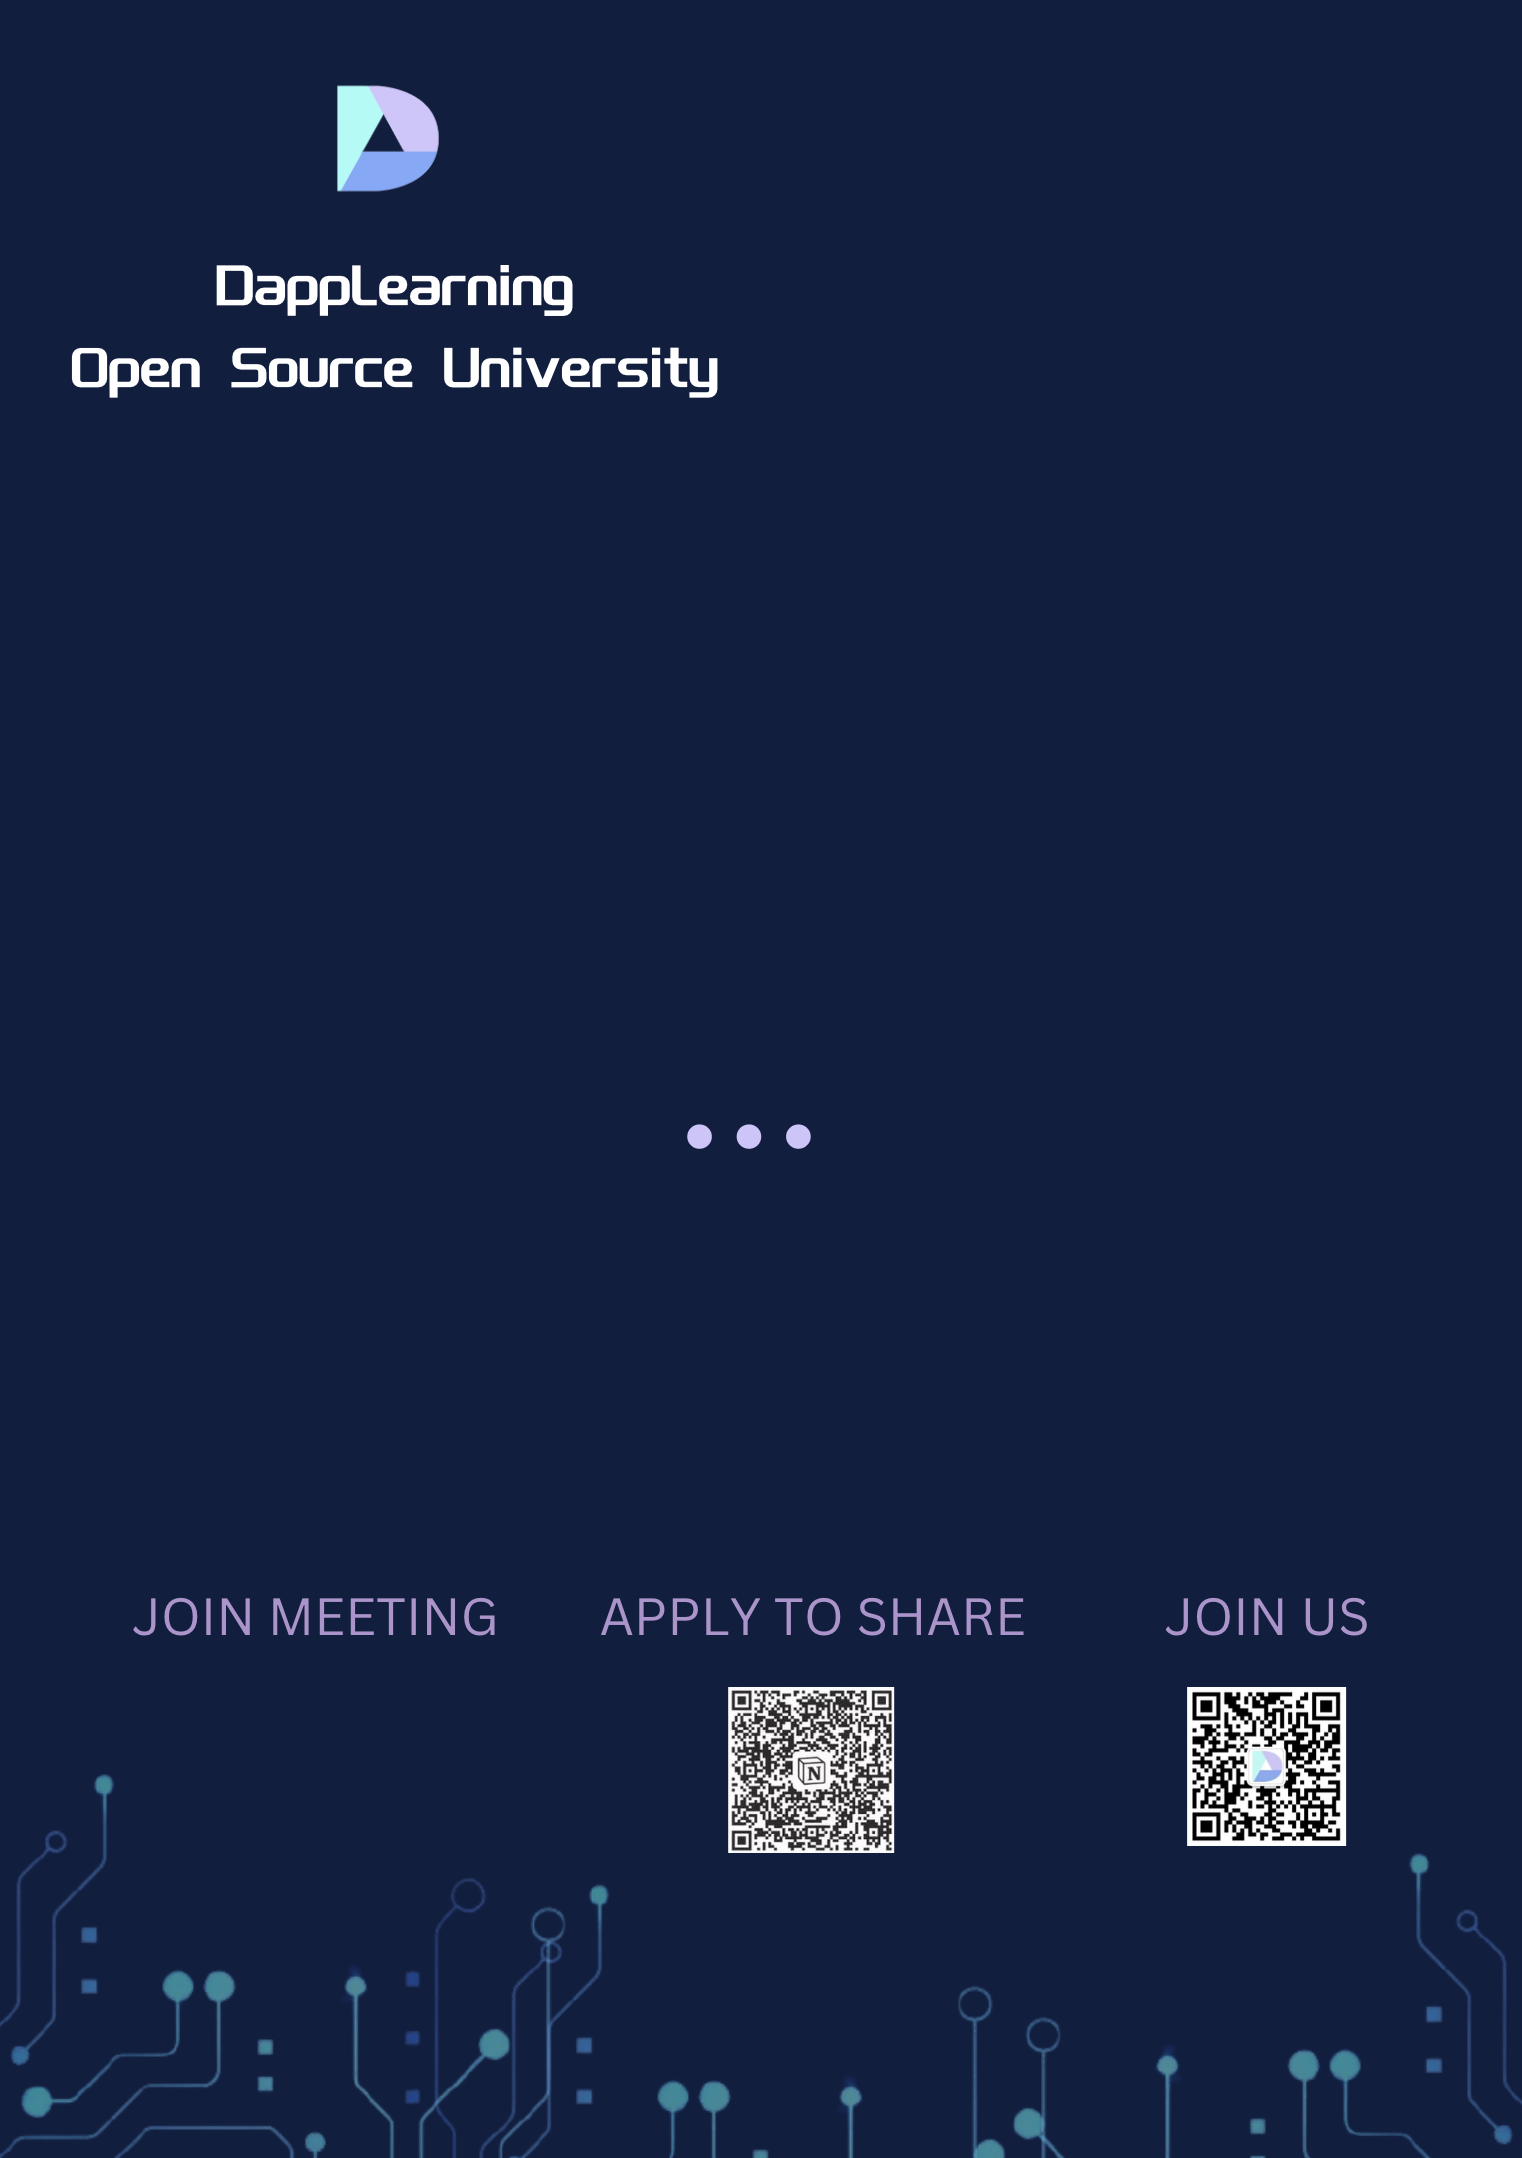
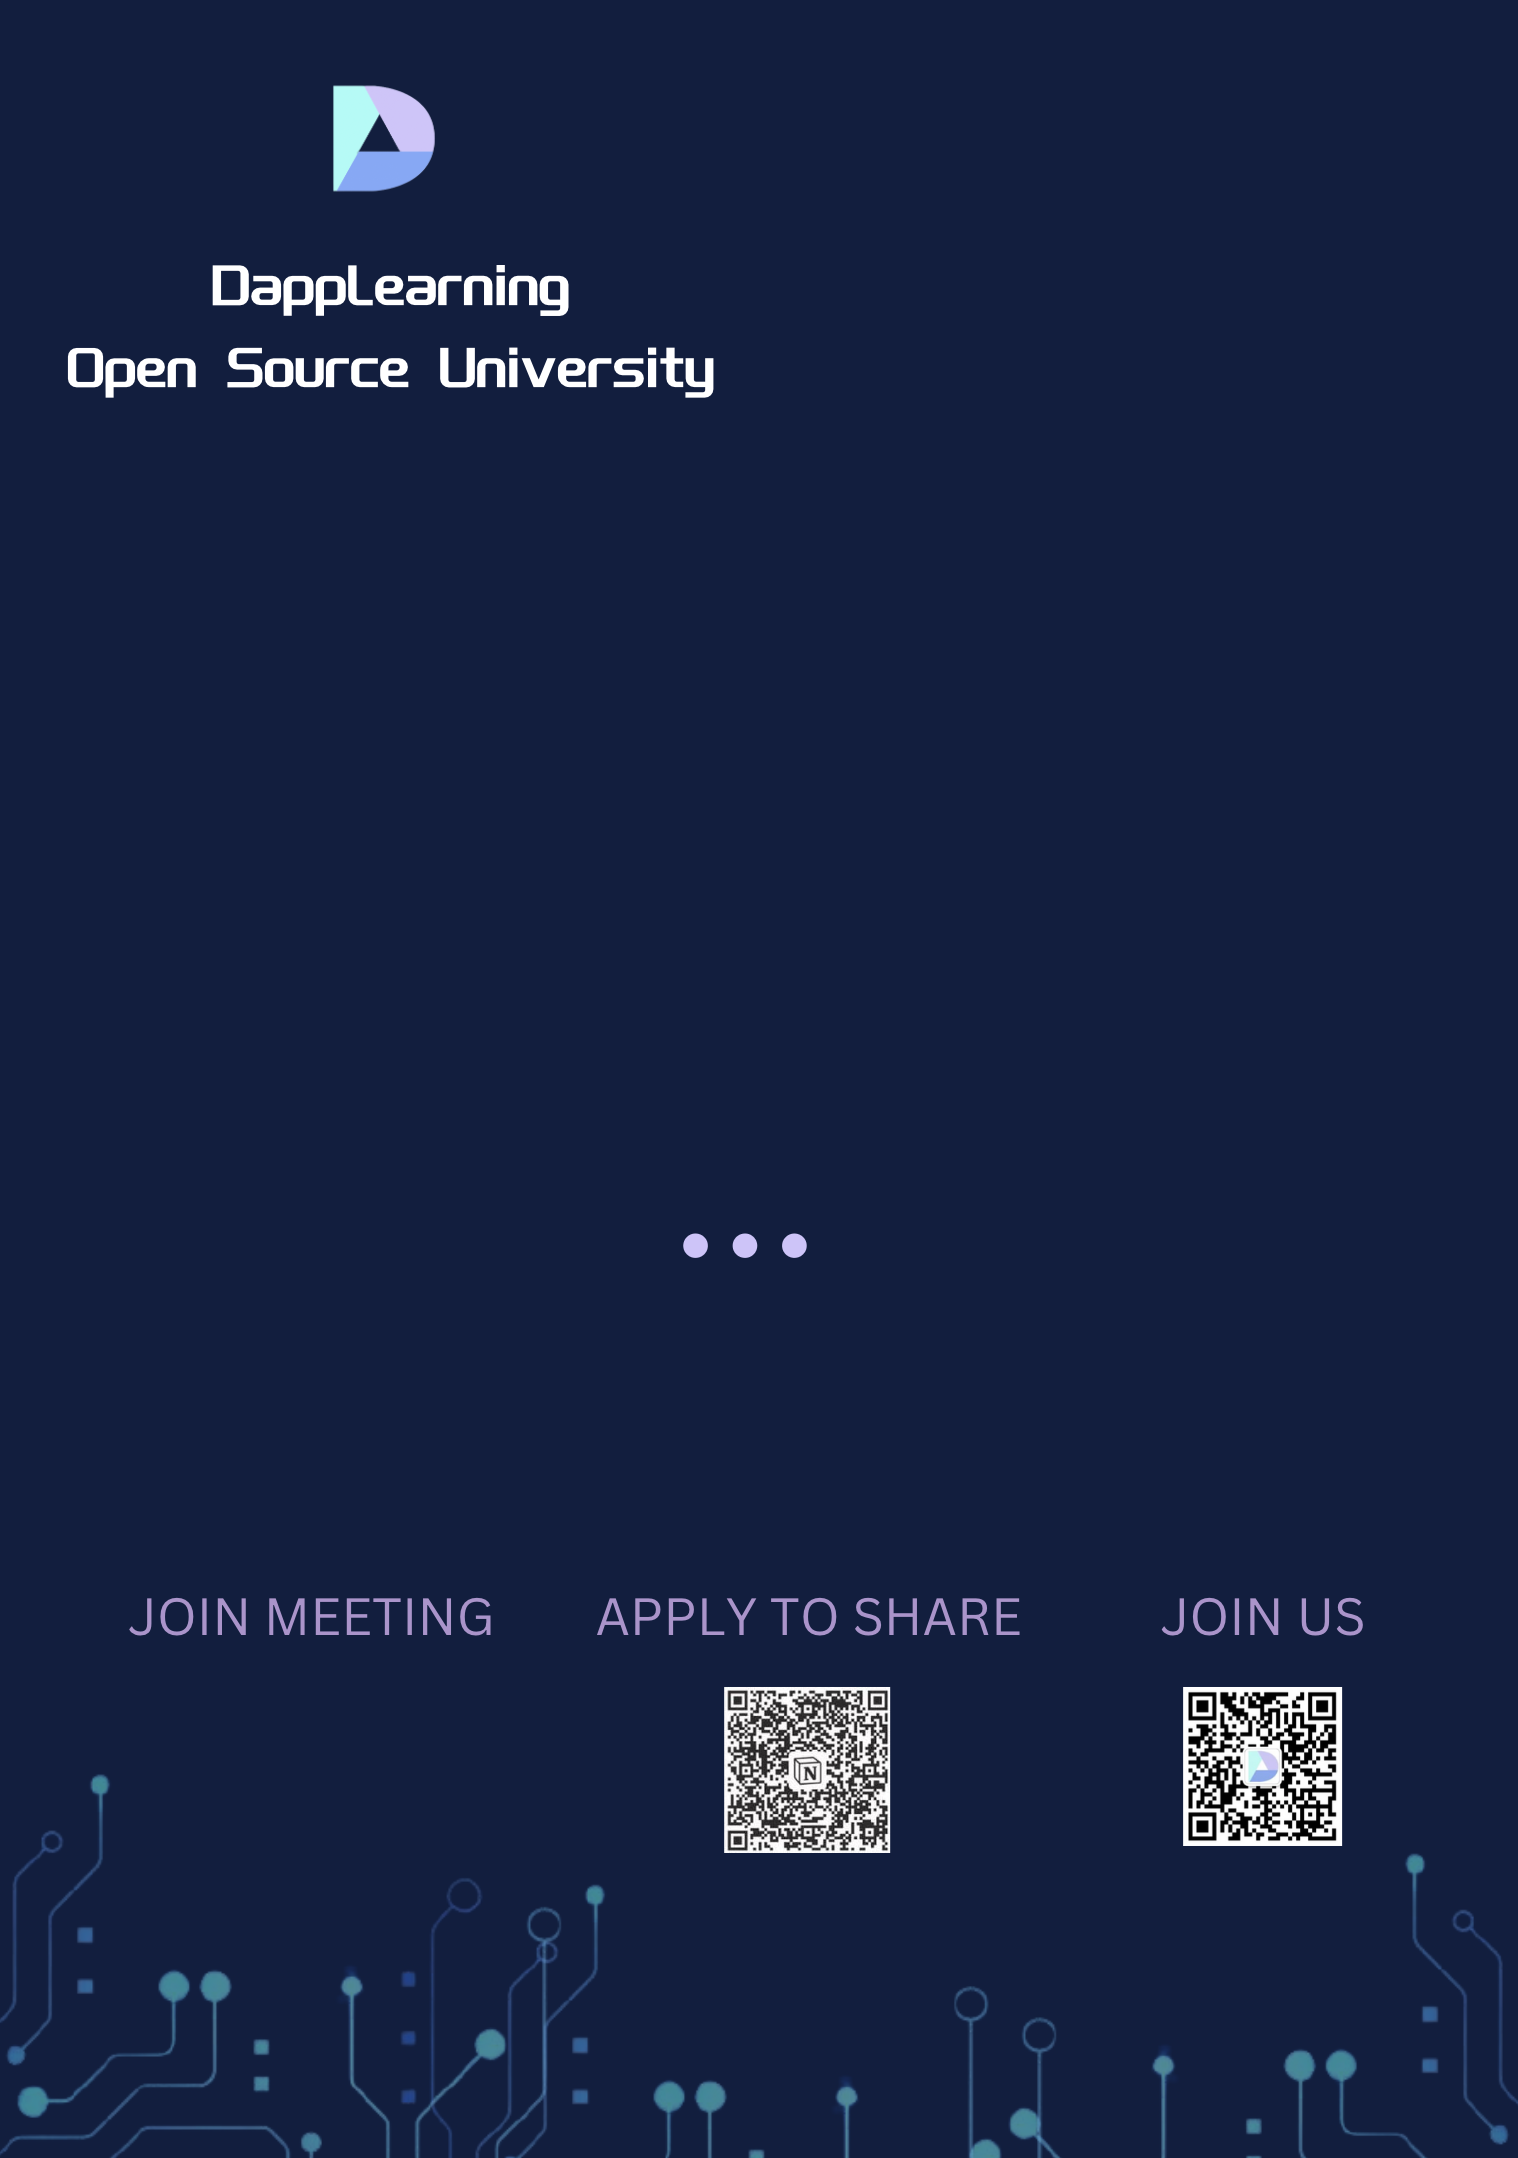
update bg pic

diff --git a/src/generate_sharing_post.py b/src/generate_sharing_post.py
@@ -14,6 +14,8 @@ INFO_FONT = "./font/Montserrat-VariableFont_wght.ttf"
 
 BG_COLOR = "#101E3F"
 
+RIGHT_TOP_LOGO_SIZE = (450, 400)
+
 
 def generate_sharing_post(
     title: str,
@@ -21,6 +23,7 @@ def generate_sharing_post(
     meeting_number: str,
     time_str: str,
     meeting_link: str,
+    title_size: int = 140,
     language: str = "Chinese",
     twitter: str = "",
     project: str = "",
@@ -28,16 +31,16 @@ def generate_sharing_post(
     meeting_type: str = "tencent",  # "tencent" | "zoom"
 ):
     # 加载海报图片
-    poster = Image.open(BG_DIR)
+    poster = Image.open(BG_DIR).convert("RGBA")
     draw = ImageDraw.Draw(poster)
 
     padding = 120
     content_width = poster.width - padding * 2
 
     # title
-    title_font = ImageFont.truetype(TITLE_FONT, size=140)
+    title_font = ImageFont.truetype(TITLE_FONT, size=title_size)
     title_position_x = padding
-    title_position_y = 480
+    title_position_y = 540
     text_color = "#A6FBF6"  # 或者使用RGB颜色，如(255, 255, 255)
 
     title_lines = auto_title_lines(title, title_font, content_width)
@@ -53,7 +56,7 @@ def generate_sharing_post(
 
     # info
     info_position_x = padding
-    info_position_y = 1015
+    info_position_y = 1140
 
     info_lines = [f"Presented by: {presenter}"]
     if twitter != "":
@@ -81,11 +84,11 @@ def generate_sharing_post(
             align="center",
             stroke_width=1,
         )
-        info_top -= _h + 16
+        info_top -= _h + 22
 
     # meeting info
     meeting_position_x = padding
-    meeting_position_y = 1220
+    meeting_position_y = 1320
 
     meeting_lines = [
         f"TIME: {time_str}",
@@ -106,21 +109,31 @@ def generate_sharing_post(
             align="center",
             stroke_width=1,
         )
-        meeting_top += _h + 20
+        meeting_top += _h + 24
 
     # right-top logo
     if project_logo != "":
         top_right_logo = convert_svg_to_png(project_logo)
+        (max_w, max_h) = RIGHT_TOP_LOGO_SIZE
+        if top_right_logo.width > max_w:
+            top_right_logo = top_right_logo.resize(
+                (max_w, int(top_right_logo.height * max_w / top_right_logo.width))
+            )
+        elif top_right_logo.height > max_h:
+            top_right_logo = top_right_logo.resize(
+                (int(top_right_logo.width * max_h / top_right_logo.height), max_h)
+            )
         poster.paste(
             top_right_logo,
             (
                 poster.width - 320 - (padding + top_right_logo.width // 2),
                 padding + 100 - (top_right_logo.height // 2),
             ),
+            top_right_logo,  # alpha mask
         )
     else:
-        top_right_logo = Image.open(DEFAULT_LOGO_DIR)
-        poster.paste(top_right_logo, (poster.width - 640, 140))
+        top_right_logo = Image.open(DEFAULT_LOGO_DIR).convert("RGBA")
+        poster.paste(top_right_logo, (poster.width - 640, 140), top_right_logo)
 
     # 生成二维码
     qr = qrcode.QRCode(

diff --git a/src/utils.py b/src/utils.py
@@ -20,13 +20,9 @@ def convert_svg_to_png(file_path, bg_color=BG_COLOR):
             write_to=TMP_CONVERT_PNG,
             background_color=bg_color,
         )
-        image = Image.open(TMP_CONVERT_PNG)
-        if image.width > 500:
-            image = image.resize((500, int(image.height * 500 / image.width)))
-        elif image.height > 400:
-            image = image.resize((int(image.width * 400 / image.height), 400))
+        image = Image.open(TMP_CONVERT_PNG).convert("RGBA")
     else:
-        image = Image.open(file_path)
+        image = Image.open(file_path).convert("RGBA")
     return image
 
 
